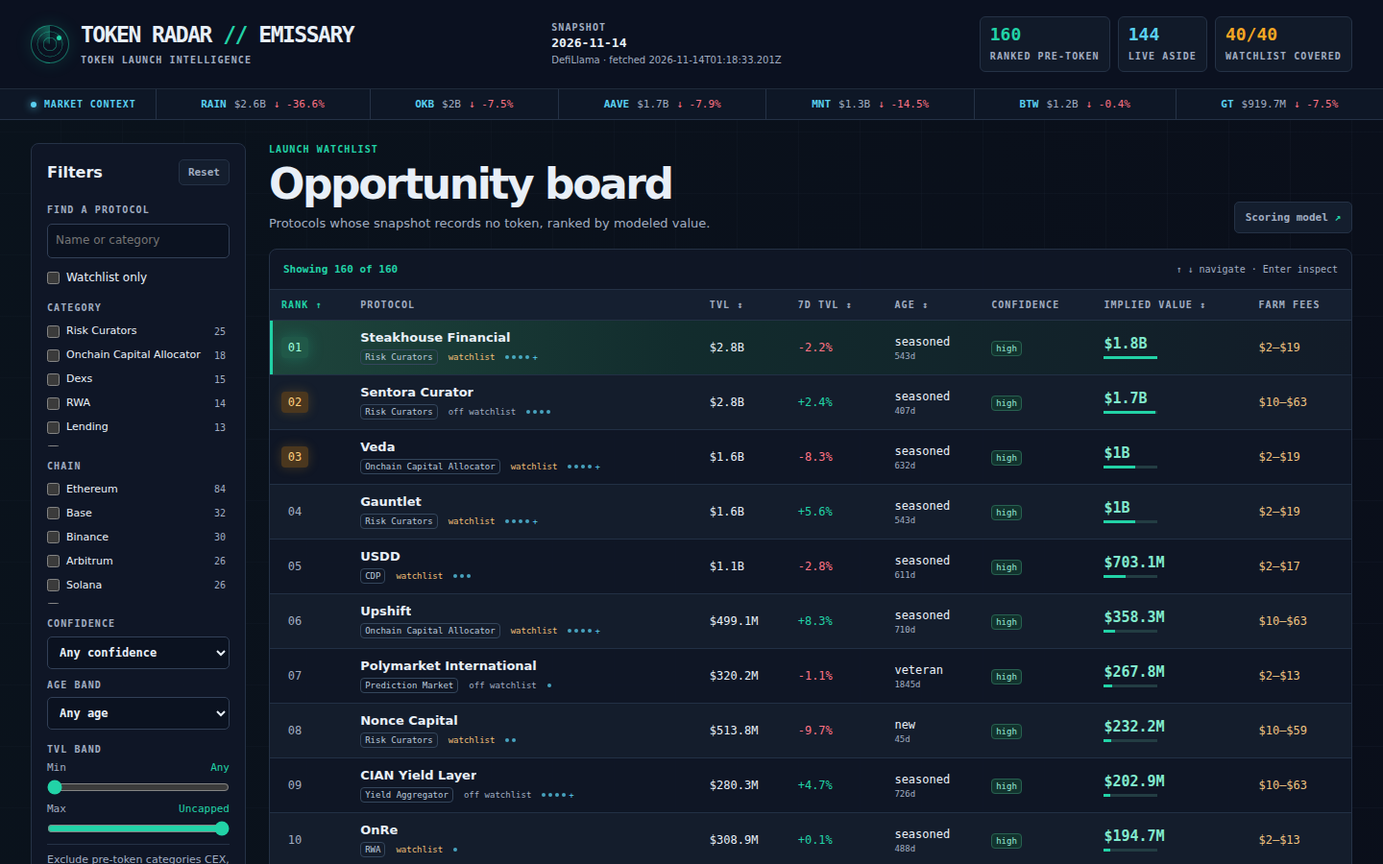
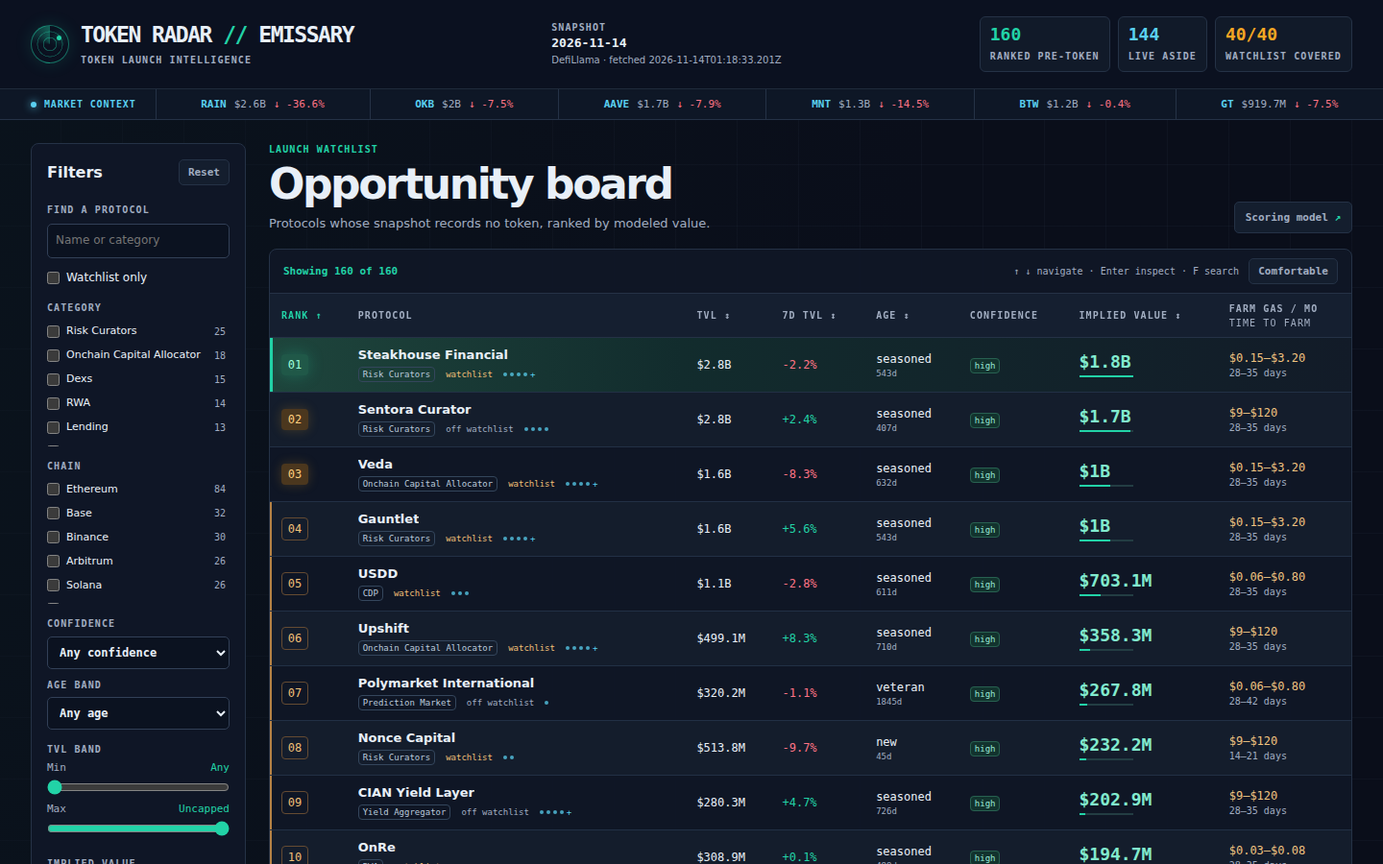
Pass 2: deep farm plans + UX polish

diff --git a/dashboard/app.js b/dashboard/app.js
@@ -11,7 +11,8 @@ const compact = new Intl.NumberFormat('en-US', { style: 'currency', currency: 'U
 const dollars = new Intl.NumberFormat('en-US', { style: 'currency', currency: 'USD', maximumFractionDigits: 0 });
 const bands = [5e6, 50e6, 100e6, 500e6, 1e9];
 const bandLabels = ['$5M', '$50M', '$100M', '$500M', '$1B+'];
-const defaults = () => ({ search: '', categories: [], chains: [], confidence: '', age: '', min: -1, max: 5, watch: false });
+const valueBands = [0, 1e6, 5e6, 10e6, 25e6, 50e6, 100e6, 250e6, 500e6, 1e9, 2e9];
+const defaults = () => ({ search: '', categories: [], chains: [], confidence: '', age: '', min: -1, max: 5, implied: 0, watch: false });
 const state = { filters: defaults(), sort: 'rank', ascending: true, focus: '', shot: new URLSearchParams(location.search).get('shot') };
 const index = new Map(radar.board.map(row => [row.slug, row]));
 const field = name => form.elements.namedItem(name);
@@ -70,18 +71,20 @@ function renderExclusions() {
 
 function syncFilters() {
   const f = state.filters;
-  for (const key of ['search', 'confidence', 'age', 'min', 'max']) field(key).value = f[key];
+  for (const key of ['search', 'confidence', 'age', 'min', 'max', 'implied']) field(key).value = f[key];
   field('watch').checked = f.watch;
   for (const input of form.querySelectorAll('[data-group]')) input.checked = f[input.dataset.group].includes(input.value);
   renderRanges();
 }
 
 function renderRanges() {
-  const { min, max } = state.filters;
+  const { min, max, implied } = state.filters;
   byId('maxValue').textContent = max === bands.length ? 'Uncapped' : compact.format(bands[max]);
   byId('minValue').textContent = min < 0 ? 'Any' : bandLabels[min];
+  byId('impliedMinValue').textContent = implied ? compact.format(valueBands[implied]) : 'Any';
   field('min').setAttribute('aria-valuetext', byId('minValue').textContent);
   field('max').setAttribute('aria-valuetext', byId('maxValue').textContent);
+  field('implied').setAttribute('aria-valuetext', byId('impliedMinValue').textContent);
 }
 
 function renderChips() {
@@ -90,6 +93,7 @@ function renderChips() {
   for (const key of ['search', 'confidence', 'age']) if (f[key].trim()) chips.push([key, f[key].trim()]);
   if (f.min >= 0) chips.push(['min', `≥ ${compact.format(bands[f.min])}`]);
   if (f.max < bands.length) chips.push(['max', `≤ ${compact.format(bands[f.max])}`]);
+  if (f.implied) chips.push(['implied', `Implied ≥ ${compact.format(valueBands[f.implied])}`]);
   if (f.watch) chips.push(['watch', 'Watchlist only']);
   byId('chips').innerHTML = chips.map(([key, value]) =>
     `<button type="button" class="chip" data-key="${key}" data-value="${html(value)}" aria-label="Remove filter ${html(value)}">${html(value)} ×</button>`
@@ -106,6 +110,7 @@ function filteredRows() {
     (!f.confidence || f.confidence === row.confidence) &&
     (!f.age || f.age === row.age_label) &&
     (f.min < 0 || row.tvl_usd >= bands[f.min]) && (f.max === bands.length || row.tvl_usd <= bands[f.max]) &&
+    row.implied_value_usd >= valueBands[f.implied] &&
     (!f.watch || row.watchlist)
   ).sort((a, b) => (a[state.sort] - b[state.sort]) * (state.ascending ? 1 : -1) || a.rank - b.rank);
 }
@@ -114,10 +119,10 @@ function rowMarkup(row) {
   const tag = row.watchlist_override ? 'watchlist override' : row.watchlist ? 'watchlist'
     : row.tvl_usd < radar.meta.floor_usd ? 'below floor' : 'off watchlist';
   const dots = '<i></i>'.repeat(Math.min(row.chains.length, 4));
-  const top = row.rank <= 3 ? `top-${row.rank}` : '';
+  const top = row.rank <= 3 ? `top-${row.rank}` : row.rank <= 10 ? 'top-ten' : '';
   return `<tr data-slug="${html(row.slug)}" class="${top}">
     <td class="rank"><span>${String(row.rank).padStart(2, '0')}</span></td>
-    <td class="protocol"><button type="button" tabindex="${row.slug === state.focus ? 0 : -1}" aria-haspopup="dialog" title="${html(row.name)}">${html(row.name)}</button>
+    <td class="protocol"><button type="button" tabindex="${row.slug === state.focus ? 0 : -1}" aria-haspopup="dialog" aria-label="Open ${html(row.name)} details" title="${html(row.name)}">${html(row.name)}</button>
       <div class="protocol-meta"><span class="category">${html(row.category)}</span><span class="tag ${row.watchlist ? 'watch' : ''}">${tag}</span>
       <span class="dots" title="${html(row.chains.join(', '))}" aria-label="${row.chains.length} listed chains">${dots}${row.chains.length > 4 ? '+' : ''}</span></div>
     </td>
@@ -127,7 +132,7 @@ function rowMarkup(row) {
     <td><span class="confidence ${row.confidence}">${row.confidence}</span></td>
     <td class="value" title="${dollars.format(row.implied_value_usd)}">${compact.format(row.implied_value_usd)}
       <meter aria-label="Implied value relative to rank one" min="0" max="${radar.board[0].implied_value_usd}" value="${row.implied_value_usd}"></meter></td>
-    <td class="fees">${html(row.farm_cost)}</td>
+    <td class="fees">${html(row.est_monthly_cost_usd)}<small>${html(row.time_to_farm_days)} days</small></td>
   </tr>`;
 }
 
@@ -163,15 +168,28 @@ function openDetail(row) {
     ['Persistence', f.persistence, `${c.persistenceBase} + ${c.persistenceWeight} × ${Math.min(row.age_days, c.ageCap).toFixed(0)} / ${c.ageCap}`],
     ['Category factor', f.cat_mult, `${compact.format(cohort.median_tvl)} cohort median · n=${cohort.count}`],
   ];
+  const multipliers = factors.map(([, value]) => value.toFixed(6));
   byId('drawerLabel').textContent = 'Protocol detail';
   byId('detail').innerHTML = `
     <div class="detail-heading"><div><h2 id="drawerTitle">${html(row.name)}</h2><p>Rank #${row.rank} · ${html(row.category)} · ${row.confidence} confidence</p></div><div><span class="micro">Implied value</span><br><strong>${dollars.format(row.implied_value_usd)}</strong></div></div>
     <section class="detail-section"><h3>Value derivation</h3>
-      <div class="equation">${dollars.format(row.tvl_usd)} × ${factors.map(([, value]) => value.toFixed(6)).join(' × ')} ≈ ${dollars.format(row.implied_value_usd)}</div>
-      <div class="factors">${factors.map(([label, value, note]) => `<div class="factor"><span class="micro">${label}</span><b>${value.toFixed(4)}</b><small>${html(note)}</small></div>`).join('')}</div>
+      <div class="derivation">
+        <div class="factors" aria-label="Value factors on a shared scale from 0 to 1.5">
+          ${factors.map(([label, value, note]) => `<div class="factor"><div><span class="micro">${label}</span><b>${value.toFixed(4)}×</b></div>
+            <div class="factor-track" aria-hidden="true"><i style="--fill: ${value / 1.5 * 100}%"></i></div><small>${html(note)}</small></div>`).join('')}
+        </div>
+        <dl class="equation" aria-label="Step-by-step value calculation">
+          <div><dt>Protocol TVL</dt><dd>${dollars.format(row.tvl_usd)}</dd></div>
+          ${factors.map(([label], i) => `<div><dt>${label}</dt><dd>× ${multipliers[i]}</dd></div>`).join('')}
+          <div><dt>Implied value</dt><dd>≈ ${dollars.format(row.implied_value_usd)}</dd></div>
+        </dl>
+      </div>
     </section>
-    <section class="detail-section"><h3>Farm plan <span class="micro">· ${html(row.farm_cost)} estimated fees</span></h3>
+    <section class="detail-section"><div class="plan-heading"><h3>Farm plan</h3>
+      <button type="button" class="quiet" id="copyPlan" aria-label="Copy farm plan for ${html(row.name)}">Copy plan</button><span id="copyStatus" class="visually-hidden" role="status"></span></div>
+      <p class="farm-summary"><strong>${html(row.est_monthly_cost_usd)}</strong> estimated monthly gas <span aria-hidden="true">·</span> <strong>${html(row.time_to_farm_days)} days</strong> to farm</p>
       <ol class="plan">${row.farm_details.map((step, i) => `<li><span class="step-number" aria-hidden="true">${String(i + 1).padStart(2, '0')}</span><div>${html(step.text)}<div class="step-chips"><span>${html(step.time)}</span><span>${html(step.cost)} fees</span></div></div></li>`).join('')}</ol>
+      ${row.farm_chain_fees.length ? `<details class="chain-fees"><summary>Gas by chain · per interaction</summary>${dataGrid(row.farm_chain_fees.map(({ chain, fee }) => [chain, fee]))}</details>` : ''}
     </section>
     <section class="detail-section"><h3>Snapshot record</h3>${dataGrid([
       ['Slug', row.slug], ['Name', row.name], ['Category', row.category], ['Chains', row.chains.join(', ') || '—'],
@@ -180,6 +198,24 @@ function openDetail(row) {
     ])}</section>
     <section class="detail-section"><h3>Signals</h3><ul class="signals">${row.signals.map(signal => `<li>${html(signal)}</li>`).join('')}</ul></section>
     <p class="footnote">The snapshot records no token when CoinGecko ID, symbol, and market cap are all blank. Records can lag deployments and token listings. Modeled value and fee bands are estimates.</p>`;
+  const copy = byId('copyPlan');
+  const copyStatus = byId('copyStatus');
+  copy.addEventListener('click', async () => {
+    const plan = [
+      `${row.name} farm plan`,
+      `${row.est_monthly_cost_usd} estimated monthly gas · ${row.time_to_farm_days} days to farm`,
+      ...row.farm_steps.map((step, i) => `${i + 1}. ${step}`),
+      ...row.farm_chain_fees.map(({ chain, fee }) => `${chain} gas per interaction: ${fee}`),
+    ].join('\n');
+    try {
+      await navigator.clipboard.writeText(plan);
+      copy.textContent = 'Copied';
+      copyStatus.textContent = 'Farm plan copied.';
+    } catch {
+      copy.textContent = 'Copy failed';
+      copyStatus.textContent = 'Could not copy the farm plan.';
+    }
+  });
   drawer.showModal();
   drawer.scrollTop = 0;
 }
@@ -202,6 +238,9 @@ form.addEventListener('input', event => {
     f[group] = [...form.querySelectorAll(`[data-group="${group}"]:checked`)].map(option => option.value);
   } else if (input.name === 'watch') {
     f.watch = input.checked;
+  } else if (input.name === 'implied') {
+    f.implied = Number(input.value);
+    renderRanges();
   } else if (input.name === 'min' || input.name === 'max') {
     f[input.name] = Number(input.value);
     if (f.min > f.max) f[input.name === 'min' ? 'max' : 'min'] = Number(input.value);
@@ -259,6 +298,28 @@ tbody.addEventListener('keydown', event => {
 });
 byId('close').addEventListener('click', () => drawer.close());
 byId('methodButton').addEventListener('click', openMethod);
+document.addEventListener('keydown', event => {
+  if (event.key.toLowerCase() !== 'f' || event.altKey || event.ctrlKey || event.metaKey ||
+      drawer.open || event.target.closest('input, textarea, select, [contenteditable]')) return;
+  event.preventDefault();
+  byId('search').focus();
+});
+
+const density = byId('density');
+function syncDensity() {
+  const compactRows = !state.shot && new URLSearchParams(location.hash.slice(1)).get('density') === 'compact';
+  document.querySelector('.board').classList.toggle('compact-rows', compactRows);
+  density.setAttribute('aria-pressed', String(compactRows));
+  density.textContent = compactRows ? 'Compact' : 'Comfortable';
+}
+density.addEventListener('click', () => {
+  const hash = new URLSearchParams(location.hash.slice(1));
+  hash.set('density', density.getAttribute('aria-pressed') === 'true' ? 'comfortable' : 'compact');
+  history.replaceState(null, '', `#${hash}`);
+  syncDensity();
+});
+window.addEventListener('hashchange', syncDensity);
+syncDensity();
 
 renderHeader();
 renderOptions();

diff --git a/lib/model.ts b/lib/model.ts
@@ -77,33 +77,75 @@ const templates: Record<string, [string, string, string]> = {
   Chain: ['fund a wallet with a small amount of the chain’s native gas asset and test a transfer', 'verify finality and the return route', 'withdrawal delays and bridge liquidity'],
 };
 
-function farm(p: Protocol) {
+const layerTwos = new Set([
+  'ApeChain', 'Arbitrum', 'Base', 'Blast', 'BOB', 'Bitlayer', 'BSquared', 'Celo', 'Citrea', 'Corn',
+  'Fraxtal', 'Goat', 'Ink', 'Katana', 'Linea', 'Lisk', 'Manta', 'Mantle', 'MegaETH', 'MetalL2',
+  'Metis', 'Mode', 'Morph', 'Op_Bnb', 'Optimism', 'Polygon zkEVM', 'Reya Network', 'Robinhood Chain',
+  'Scroll', 'Soneium', 'Starknet', 'Taiko', 'Unichain', 'World Chain', 'X Layer', 'Zircuit', 'zkLink', 'zkSync Era',
+]);
+const positionDollars = new Intl.NumberFormat('en-US', {
+  style: 'currency', currency: 'USD', maximumFractionDigits: 0,
+});
+const usdFee = (value: number) => `$${value.toFixed(Number.isInteger(value) ? 0 : 2)}`;
+const feeRange = (low: number, high: number) =>
+  low === high ? usdFee(low) : `${usdFee(low)}–${usdFee(high)}`;
+
+function chainFees(chain: string): [number, number] {
+  if (chain === 'Ethereum') return [3, 15];
+  if (chain === 'Solana') return [0.01, 0.01];
+  if (layerTwos.has(chain)) return [0.05, 0.40];
+  return [0.02, 0.10];
+}
+
+function farm(p: Protocol & { age_days: number }) {
   const [action, review, risk] = templates[p.category] ??
     ['use a supported asset in the smallest reversible core action', 'check the balance and exit route', 'contract risk and withdrawal limits'];
-  const chain = p.chains[0] ?? 'a supported chain';
-  const capital = Math.round(clamp(Math.sqrt(p.tvl_usd / 5000), 25, 500) / 5) * 5;
-  const weeks = p.tvl_usd >= 100_000_000 ? '3–4 weeks' : '2–3 weeks';
-  const tx = chain === 'Ethereum' ? 5 : 1;
   const chains = [...new Set(p.chains)];
-  const routes = Math.min(4, chains.length);
+  const chain = chains[0] ?? 'a verified deployment';
+  const capital = [0.0005, 0.002].map(share => positionDollars.format(clamp(p.tvl_usd * share, 200, 25_000))).join('–');
+  const weeks = p.age_days < 90 ? [2, 3] : p.age_days < 365 ? [3, 4] : p.age_days < 730 ? [4, 5] : [4, 6];
+  const time_to_farm_days = `${weeks[0] * 7}–${weeks[1] * 7}`;
+  const feeGroups = new Map<string, string[]>();
+  const farm_chain_fees = chains.map(name => {
+    const fee = feeRange(...chainFees(name));
+    if (!feeGroups.has(fee)) feeGroups.set(fee, []);
+    feeGroups.get(fee)!.push(name);
+    return { chain: name, fee };
+  });
+  const feeSummary = [...feeGroups].map(([fee, names]) => {
+    const sample = names.slice(0, 4).join(', ');
+    return `${sample}${names.length > 4 ? ` + ${names.length - 4} more in the same fee band` : ''} ${fee}`;
+  }).join('; ');
+  const [low, high] = chainFees(chains[0] ?? '');
+  const est_monthly_cost_usd = feeRange(3 * low, 8 * high);
+  const change = p.change_7d == null ? 'no 7d TVL reading' :
+    `a ${p.change_7d >= 0 ? '+' : ''}${p.change_7d.toFixed(1)}% 7d TVL print`;
+  const caution = p.change_7d == null ? 'Get a fresh 7d TVL reading before sizing up.' :
+    p.change_7d <= -10 ? `With ${change}, wait for a flat or positive week before funding.` :
+    p.change_7d < 0 ? `With ${change}, start at the lower end once flows stabilize.` :
+    p.change_7d >= 20 ? `With ${change}, check whether a single incentive pool drove the inflow before renewing.` :
+    `With ${change}, check the live pool’s withdrawable liquidity before judging the trade on headline TVL.`;
   const steps = [
-    { time: '10–15 min', cost: '$0', text: `Verify the ${p.category} deployment on ${chain}, check its supported assets and quote a $${capital}–$${capital * 3} position. Skip deployments with unclear withdrawal terms.` },
-    ...(chains.length > 1 ? [{
+    { time: '10–15 min', cost: '$0', text: `Check the official ${p.name} ${p.category} deployment on ${chain} and confirm a live exit quote. Snapshot shows ${change}; skip entry at −10% or worse. Points status is unverified; count points only if published terms cover your wallet, chain and action.` },
+    { time: '10–25 min', cost: feeRange(low * 2, high * 3), text: `On ${chain}, ${action}. Work with ${capital} against ${money(p.tvl_usd)} protocol TVL (0.05–0.20%, bounded at $200–$25,000). Start small and check the exit before sizing up.` },
+    { time: '5–10 min', cost: '$0', text: `Budget gas per interaction: ${feeSummary || 'quote the chain first; no deployment is listed'}. On ${chain}, allow ${est_monthly_cost_usd} for 3–4 setup and exit interactions plus up to 4 weekly touches in a 30-day budget. Quote swap, bridge or withdrawal fees separately.` },
+    { time: `${weeks.join('–')} weeks`, cost: feeRange(0, high * 4), text: `Hold for ${weeks.join('–')} weeks (${time_to_farm_days} days); ${review} weekly. Touch on-chain only if the published rules require it. Stop adding and check the exit if TVL drops 10% from entry or you see ${risk}.` },
+    { time: '15–30 min', cost: feeRange(low, high), text: `Withdraw when the review ends or the stop trips, subject to the exit terms. Save receipts and net out fees. Watch official points announcements and any token claim window; log rewards only when claimable. ${caution}` },
+    ...(chains.length >= 3 ? [{
       time: '5–10 min', cost: '$0',
-      text: `Compare the ${chain} and ${chains[1]} deployments for liquidity, gas and exit terms. Proceed on ${chain} only if its terms suit the planned position.`,
+      text: `Before funding, compare exit quotes on ${chain} and ${chains[1]}. Across ${chains.length} listed chains, use one wallet and one deployment unless the rules explicitly credit activity across chains.`,
     }] : []),
-    { time: '10–25 min', cost: `$${tx}–$${tx * 5 + routes}`, text: `On ${chain}, ${action}. Set aside $${capital}–$${capital * 3} of capital and keep a separate gas balance for the exit.` },
-    { time: weeks, cost: '$0', text: `Monitor the recorded activity and ${review} once a week. Watch for ${risk}; reassess the exit if conditions worsen.` },
-    ...(p.change_7d != null && p.listed_at ? [{
+    ...(p.tvl_usd > 500_000_000 ? [{
       time: '5–10 min', cost: '$0',
-      text: `Record the snapshot’s ${p.change_7d.toFixed(1)}% weekly TVL change and ${p.listed_at} tracking start. Check whether recent flows changed liquidity or exit terms before renewing the position.`,
+      text: `Before committing to the upper size, check withdrawal capacity in the specific pool on ${chain}. The ${money(p.tvl_usd)} headline TVL spans the protocol; size down if the pool cannot quote your full exit.`,
     }] : []),
-    { time: '15–30 min', cost: `$${tx}–$${tx * 6 + routes}`, text: `Unwind on ${chain} when the review window ends, subject to any lockup. Record net fees and confirm the returned balance before closing the log.` },
   ];
   return {
     farm_steps: steps.map(s => `${s.text} Time: ${s.time}. Estimated cost: ${s.cost}.`),
     farm_details: steps,
-    farm_cost: `$${tx * 2}–$${tx * 11 + routes * 2}`,
+    farm_chain_fees,
+    est_monthly_cost_usd,
+    time_to_farm_days,
   };
 }
 
@@ -183,7 +225,7 @@ export function buildRadar(snapshot: Snapshot) {
 type Board = ReturnType<typeof buildRadar>['board'];
 
 export function boardIssue(board: Board, snapshot: Snapshot): string | null {
-  if (!Array.isArray(board) || board.length < 100 || board.length > 200) return 'Board must contain 100–200 rows';
+  if (!Array.isArray(board) || board.length < 100 || board.length > 4000) return 'Board must contain 100–4000 rows';
   const seen = new Set<string>();
   const watchlist = new Set(snapshot.watchlist);
   const candidates = new Map(snapshot.protocols.filter(isPreToken).map(p => [p.slug, p]));
@@ -198,7 +240,8 @@ export function boardIssue(board: Board, snapshot: Snapshot): string | null {
         row.implied_value_usd > CONSTANTS.maxValue || (index > 0 && row.implied_value_usd > board[index - 1].implied_value_usd)) {
       return `Invalid implied value: ${row.slug}`;
     }
-    if (!Array.isArray(row.farm_steps) || row.farm_steps.length < 4 || row.farm_steps.length > 6 ||
+    if (!Array.isArray(row.farm_steps) || row.farm_steps.length < 5 ||
+        row.farm_steps.length > 5 + Number(new Set(row.chains).size >= 3) + Number(row.tvl_usd > 500_000_000) ||
         row.farm_steps.some(step => typeof step !== 'string' || step.length < 20 || step.length > 600)) return `Invalid farm plan: ${row.slug}`;
   }
   return snapshot.watchlist.find(slug => !seen.has(slug)) ? 'Board is missing a watchlist protocol' : null;

diff --git a/dashboard/app.css b/dashboard/app.css
@@ -74,12 +74,18 @@ legend { padding: 0; margin-bottom: 5px; }
 .model-button { padding: 9px 11px; }
 .model-button span { color: var(--green); }
 .board { border: 1px solid var(--line); background: #101726f7; border-radius: 8px; overflow: hidden; }
-.board-status { display: flex; align-items: center; gap: 10px; padding: 9px 14px; min-height: 42px; border-bottom: 1px solid var(--line); }
+.board-status { display: flex; flex-wrap: wrap; align-items: center; gap: 10px; padding: 9px 14px; min-height: 42px; border-bottom: 1px solid var(--line); }
 #count { color: var(--green); font: 650 11px var(--mono); white-space: nowrap; }
 .board-hint { margin-left: auto; color: var(--muted); font: 10px var(--mono); white-space: nowrap; }
 .chips { display: flex; flex-wrap: wrap; gap: 4px; }
 .chip { background: #183431; border: 1px solid #286451; border-radius: 4px; color: #9aead7; padding: 3px 6px; font: 10px var(--mono); }
 .table-wrap { overflow-x: auto; }
+.board .table-wrap { max-height: min(680px, 68vh); overflow: auto; scroll-padding-top: 48px; }
+.board th { position: sticky; top: 0; z-index: 1; box-shadow: 0 1px var(--line); }
+.board th small, .fees small { display: block; margin-top: 3px; color: var(--muted); font: 10px var(--mono); }
+.compact-rows td { height: 40px; padding-block: 4px; }
+.compact-rows .protocol-meta { margin-top: 2px; }
+#density[aria-pressed="true"] { color: var(--green); border-color: #286451; }
 .excluded { margin-top: 14px; border: 1px solid var(--line); border-radius: 6px; }
 .excluded summary { cursor: pointer; padding: 10px 12px; font: 12px var(--mono); }
 .excluded summary .tag { margin-left: 6px; border-color: var(--line); }
@@ -101,6 +107,8 @@ tbody tr[data-slug]:hover, tbody tr:focus-within { background: #1b3038; }
 .top-1 .rank span { color: #9effdc; background: #205848; box-shadow: 0 0 16px #22d3a742; }
 .top-1 td:first-child { box-shadow: inset 3px 0 var(--green); }
 .top-2 .rank span, .top-3 .rank span { color: #ffce7d; background: #4b371e; box-shadow: 0 0 12px #f5a62335; }
+.top-ten .rank { box-shadow: inset 2px 0 #b58245; }
+.top-ten .rank span { color: #efbf76; border: 1px solid #654b32; }
 .protocol button { display: block; text-align: left; max-width: 270px; overflow: hidden; text-overflow: ellipsis; white-space: nowrap; color: var(--text); font: 700 13px var(--sans); padding: 0; border: 0; background: transparent; }
 .protocol-meta { display: flex; gap: 6px; align-items: center; margin-top: 5px; }
 .category, .tag, .confidence { border: 1px solid #34465c; border-radius: 4px; padding: 2px 4px; font: 9px var(--mono); color: #bbcadc; }
@@ -112,7 +120,7 @@ tbody tr[data-slug]:hover, tbody tr:focus-within { background: #1b3038; }
 .confidence.high { color: #9aead7; background: #12332e; border-color: #286151; }
 .confidence.medium { color: #ffcf86; background: #362918; border-color: #644a25; }
 .confidence.low { color: #ff99a4; background: #3b222d; border-color: #713a49; }
-.value { color: #82ebce; font-weight: 750; font-size: 15px; }
+.value { color: #82ebce; font-weight: 750; font-size: 18px; }
 .value meter { display: block; width: 56px; height: 5px; margin-top: 3px; appearance: none; }
 meter::-webkit-meter-bar { background: #233d43; border: 0; }
 meter::-webkit-meter-optimum-value { background: var(--green); }
@@ -133,11 +141,23 @@ meter::-moz-meter-bar { background: var(--green); }
 .detail-heading p { color: var(--muted); margin-top: 4px; font-size: 12px; }
 .detail-section { margin: 12px 0; }
 .detail-section h3 { font-size: 13px; margin-bottom: 6px; }
-.equation { padding: 8px; background: #102527; border: 1px solid #275348; border-radius: 5px; color: #a2edd8; font: 11px/1.5 var(--mono); }
-.factors { display: grid; grid-template-columns: repeat(4, 1fr); gap: 6px; margin-top: 6px; }
+.derivation { display: grid; grid-template-columns: 1.2fr 1fr; gap: 8px; }
+.equation { display: grid; align-content: center; gap: 7px; margin: 0; padding: 10px; background: #102527; border: 1px solid #275348; border-radius: 5px; color: #a2edd8; font: 11px/1.5 var(--mono); }
+.equation div, .factor > div:first-child { display: flex; justify-content: space-between; gap: 8px; }
+.equation dd { margin: 0; text-align: right; }
+.equation div:last-child { border-top: 1px solid #275348; padding-top: 6px; font-weight: 700; }
+.factors { display: grid; gap: 4px; }
 .factor, .datum { padding: 6px 8px; background: #151f30; border: 1px solid #25374b; border-radius: 4px; min-width: 0; }
 .factor b { display: block; color: var(--green); font: 700 12px var(--mono); }
 .factor small { display: block; color: var(--muted); font-size: 10px; }
+.factor-track { height: 4px; margin-block: 4px; border-radius: 2px; background: #26394c; }
+.factor-track i { display: block; width: var(--fill); height: 100%; border-radius: inherit; background: var(--green); }
+.plan-heading { display: flex; align-items: baseline; justify-content: space-between; gap: 8px; }
+.farm-summary { color: var(--muted); font-size: 11px; margin: 0 0 7px; }
+.farm-summary strong { color: #f0c380; }
+.chain-fees { margin-top: 7px; font-size: 11px; }
+.chain-fees summary { cursor: pointer; color: var(--green); margin-bottom: 5px; }
+.visually-hidden { position: absolute; width: 1px; height: 1px; overflow: hidden; clip-path: inset(50%); white-space: nowrap; }
 .plan { list-style: none; padding: 0; margin: 0; display: grid; gap: 5px; }
 .plan li { display: grid; grid-template-columns: 24px 1fr; gap: 7px; border: 1px solid #2a394c; background: #111a29; border-radius: 5px; padding: 6px 8px; font-size: 11px; }
 .step-number { color: var(--green); font: 700 11px var(--mono); padding-top: 2px; }
@@ -165,5 +185,8 @@ meter::-moz-meter-bar { background: var(--green); }
   .board-head { align-items: start; }
   .board-hint { display: none; }
   .drawer { padding: 16px; }
-  .factors, .fields { grid-template-columns: repeat(2, minmax(0, 1fr)); }
+  .fields { grid-template-columns: repeat(2, minmax(0, 1fr)); }
+}
+@media (max-width: 460px) {
+  .derivation { grid-template-columns: 1fr; }
 }

diff --git a/dashboard/index.html b/dashboard/index.html
@@ -23,7 +23,7 @@
       <div class="rail-head"><h2>Filters</h2><button type="button" id="reset" class="quiet">Reset</button></div>
       <form id="filters">
         <label class="micro" for="search">Find a protocol</label>
-        <input id="search" name="search" type="search" placeholder="Name or category" autocomplete="off">
+        <input id="search" name="search" type="search" placeholder="Name or category" autocomplete="off" aria-keyshortcuts="F">
         <label class="toggle"><input name="watch" type="checkbox"> Watchlist only</label>
         <fieldset><legend>Category</legend><div id="categories" class="options"></div></fieldset>
         <fieldset><legend>Chain</legend><div id="chains" class="options"></div></fieldset>
@@ -32,8 +32,11 @@
           <label class="micro">Age band<select name="age"><option value="">Any age</option><option>new</option><option>young</option><option>seasoned</option><option>veteran</option></select></label>
         </div>
         <fieldset><legend>TVL band</legend><div class="ranges">
-          <label><span>Min</span><output id="minValue"></output><input type="range" name="min" min="-1" max="4" value="-1"></label>
-          <label><span>Max</span><output id="maxValue"></output><input type="range" name="max" min="0" max="5" value="5"></label>
+          <label><span>Min</span><output id="minValue"></output><input type="range" name="min" min="-1" max="4" value="-1" aria-label="Minimum TVL"></label>
+          <label><span>Max</span><output id="maxValue"></output><input type="range" name="max" min="0" max="5" value="5" aria-label="Maximum TVL"></label>
+        </div></fieldset>
+        <fieldset><legend>Implied value</legend><div class="ranges">
+          <label><span>Min</span><output id="impliedMinValue"></output><input type="range" name="implied" min="0" max="10" value="0" aria-label="Minimum implied value"></label>
         </div></fieldset>
       </form>
     </aside>
@@ -43,14 +46,14 @@
         <button type="button" class="quiet model-button" id="methodButton">Scoring model <span aria-hidden="true">↗</span></button>
       </div>
       <section class="board" aria-label="Ranked opportunities">
-        <div class="board-status"><span id="count" role="status"></span><div id="chips" class="chips"></div><span class="board-hint">↑ ↓ navigate · Enter inspect</span></div>
-        <div class="table-wrap">
-          <table>
+        <div class="board-status"><span id="count" role="status"></span><div id="chips" class="chips"></div><span class="board-hint">↑ ↓ navigate · Enter inspect · F search</span><button type="button" id="density" class="quiet" aria-pressed="false" aria-label="Compact row density">Comfortable</button></div>
+        <div class="table-wrap" role="region" aria-label="Scrollable opportunity board">
+          <table aria-label="Ranked protocols">
             <thead><tr>
               <th scope="col"><button data-sort="rank">Rank <span></span></button></th><th scope="col">Protocol</th>
               <th scope="col"><button data-sort="tvl_usd">TVL <span></span></button></th><th scope="col"><button data-sort="growth">7d TVL <span></span></button></th>
               <th scope="col"><button data-sort="age_days">Age <span></span></button></th><th scope="col">Confidence</th>
-              <th scope="col"><button data-sort="implied_value_usd">Implied value <span></span></button></th><th scope="col">Farm fees</th>
+              <th scope="col"><button data-sort="implied_value_usd">Implied value <span></span></button></th><th scope="col">Farm gas / mo <small>Time to farm</small></th>
             </tr></thead>
             <tbody id="rows"></tbody>
           </table>
